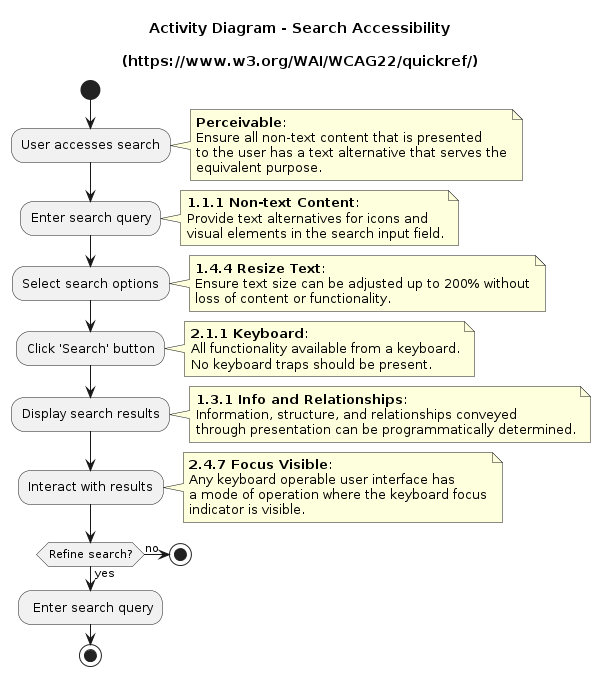
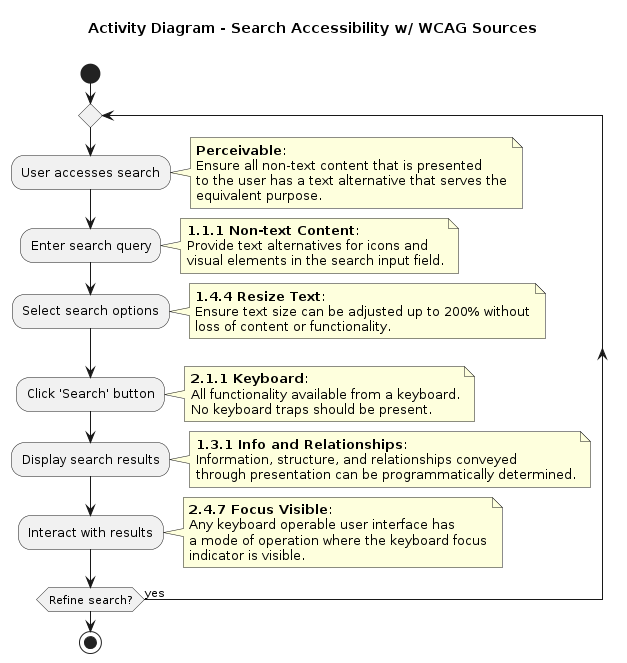
Add refined diagrams and explanation

diff --git a/README.md b/README.md
@@ -4,9 +4,12 @@ Docs repo for eHealthy app / vertical slice, using Angular, C#/.NET, SQL Server/
 Regarding WCAG the most effective thing, that introduces the least overhead, is probably to take an accessibility (a11y) perspective from start. w3 org has good documentation both about tools for analysis, and guidelines for setup and human evaluation: [https://www.w3.org/WAI/test-evaluate/](https://www.w3.org/WAI/test-evaluate/).
 
 ## Thoughts about the current site [vardgivarguiden.se](https://vardgivarguiden.se/)
-As I have noticed a central search function on vardgivarguiden.se, I have utilized AI to make a draft for an Activity Diagram to visualize the inclusion of WCAG practices. The AI was fed with the quick reference amongst other data.
+### Search functionality
+As I have noticed a central search function on vardgivarguiden.se, I have made a draft for an Activity Diagram to visualize the inclusion of WCAG practices and validation. Then there is another diagram which is created by feeding AI with the WCAG quick reference to get direct pointers from the search functionality details, to the WCAG quick reference.
 
 Clickable link for WCAG quick reference:\
 <a href="https://www.w3.org/WAI/WCAG22/quickref/" target="_blank">https://www.w3.org/WAI/WCAG22/quickref/</a>
 
-![activity diagram for search functionality](image.png)
+![alt text](image-1.png)
+
+![alt text="activity diagram with wcag pointers"](image.png)
